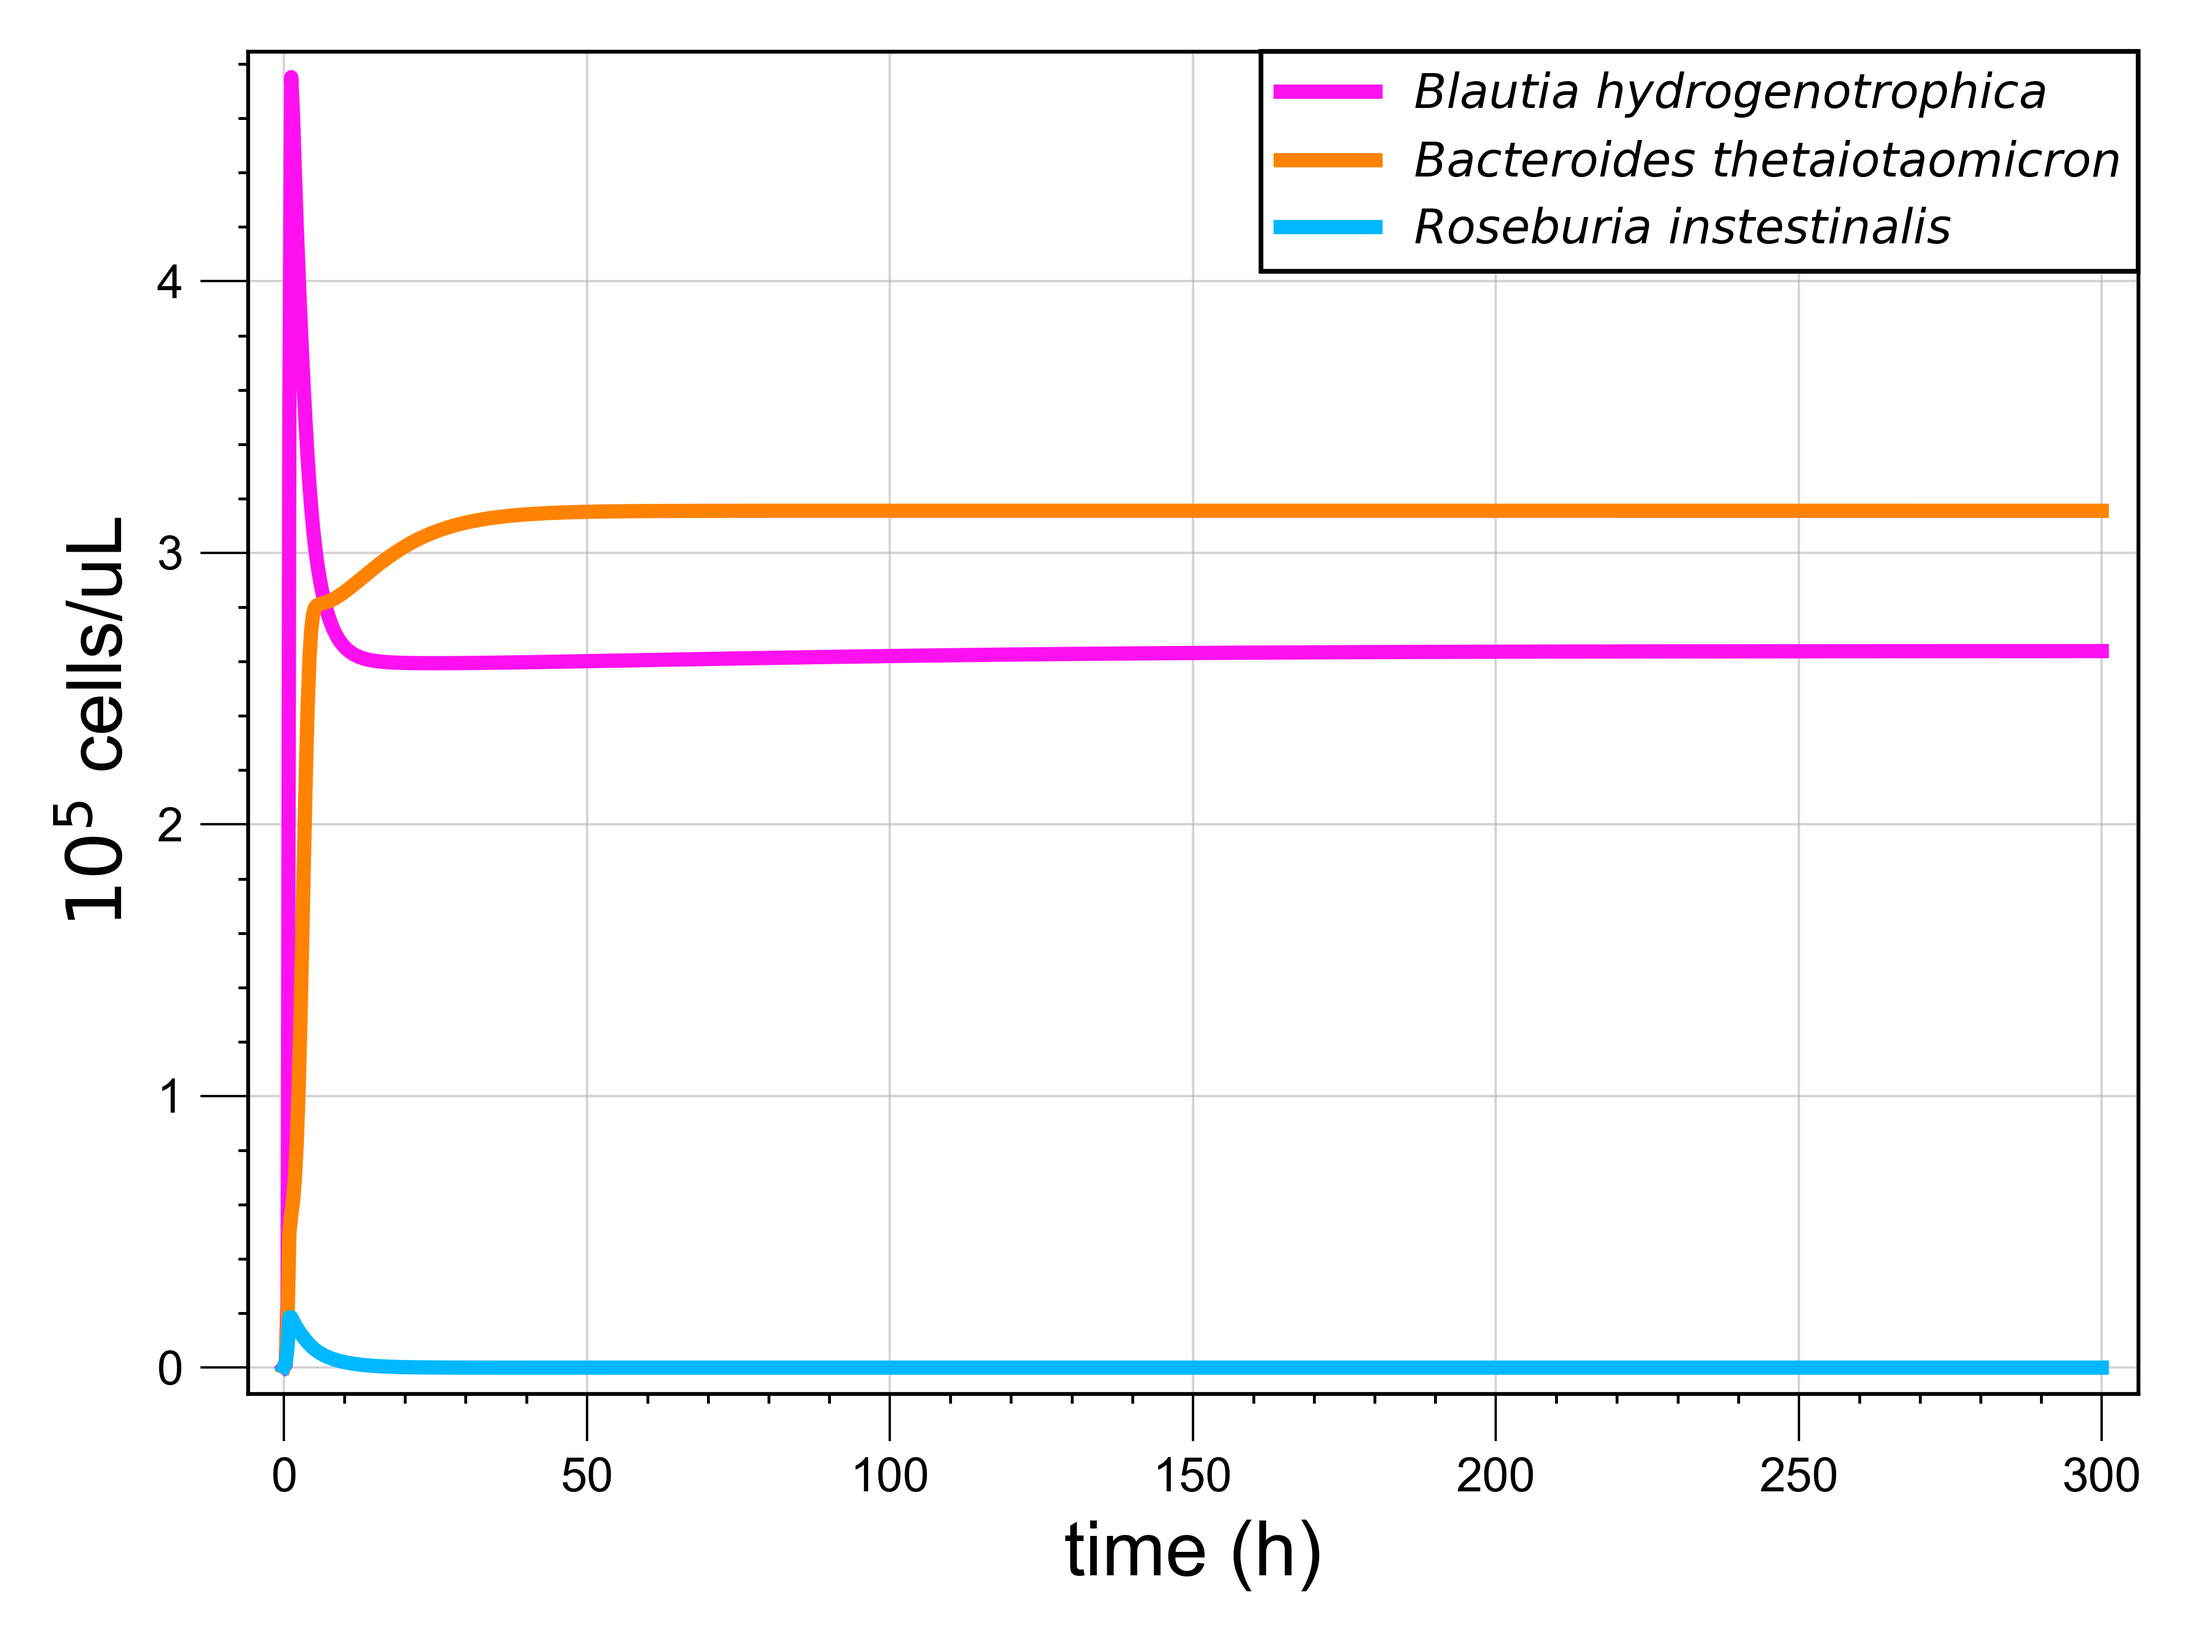
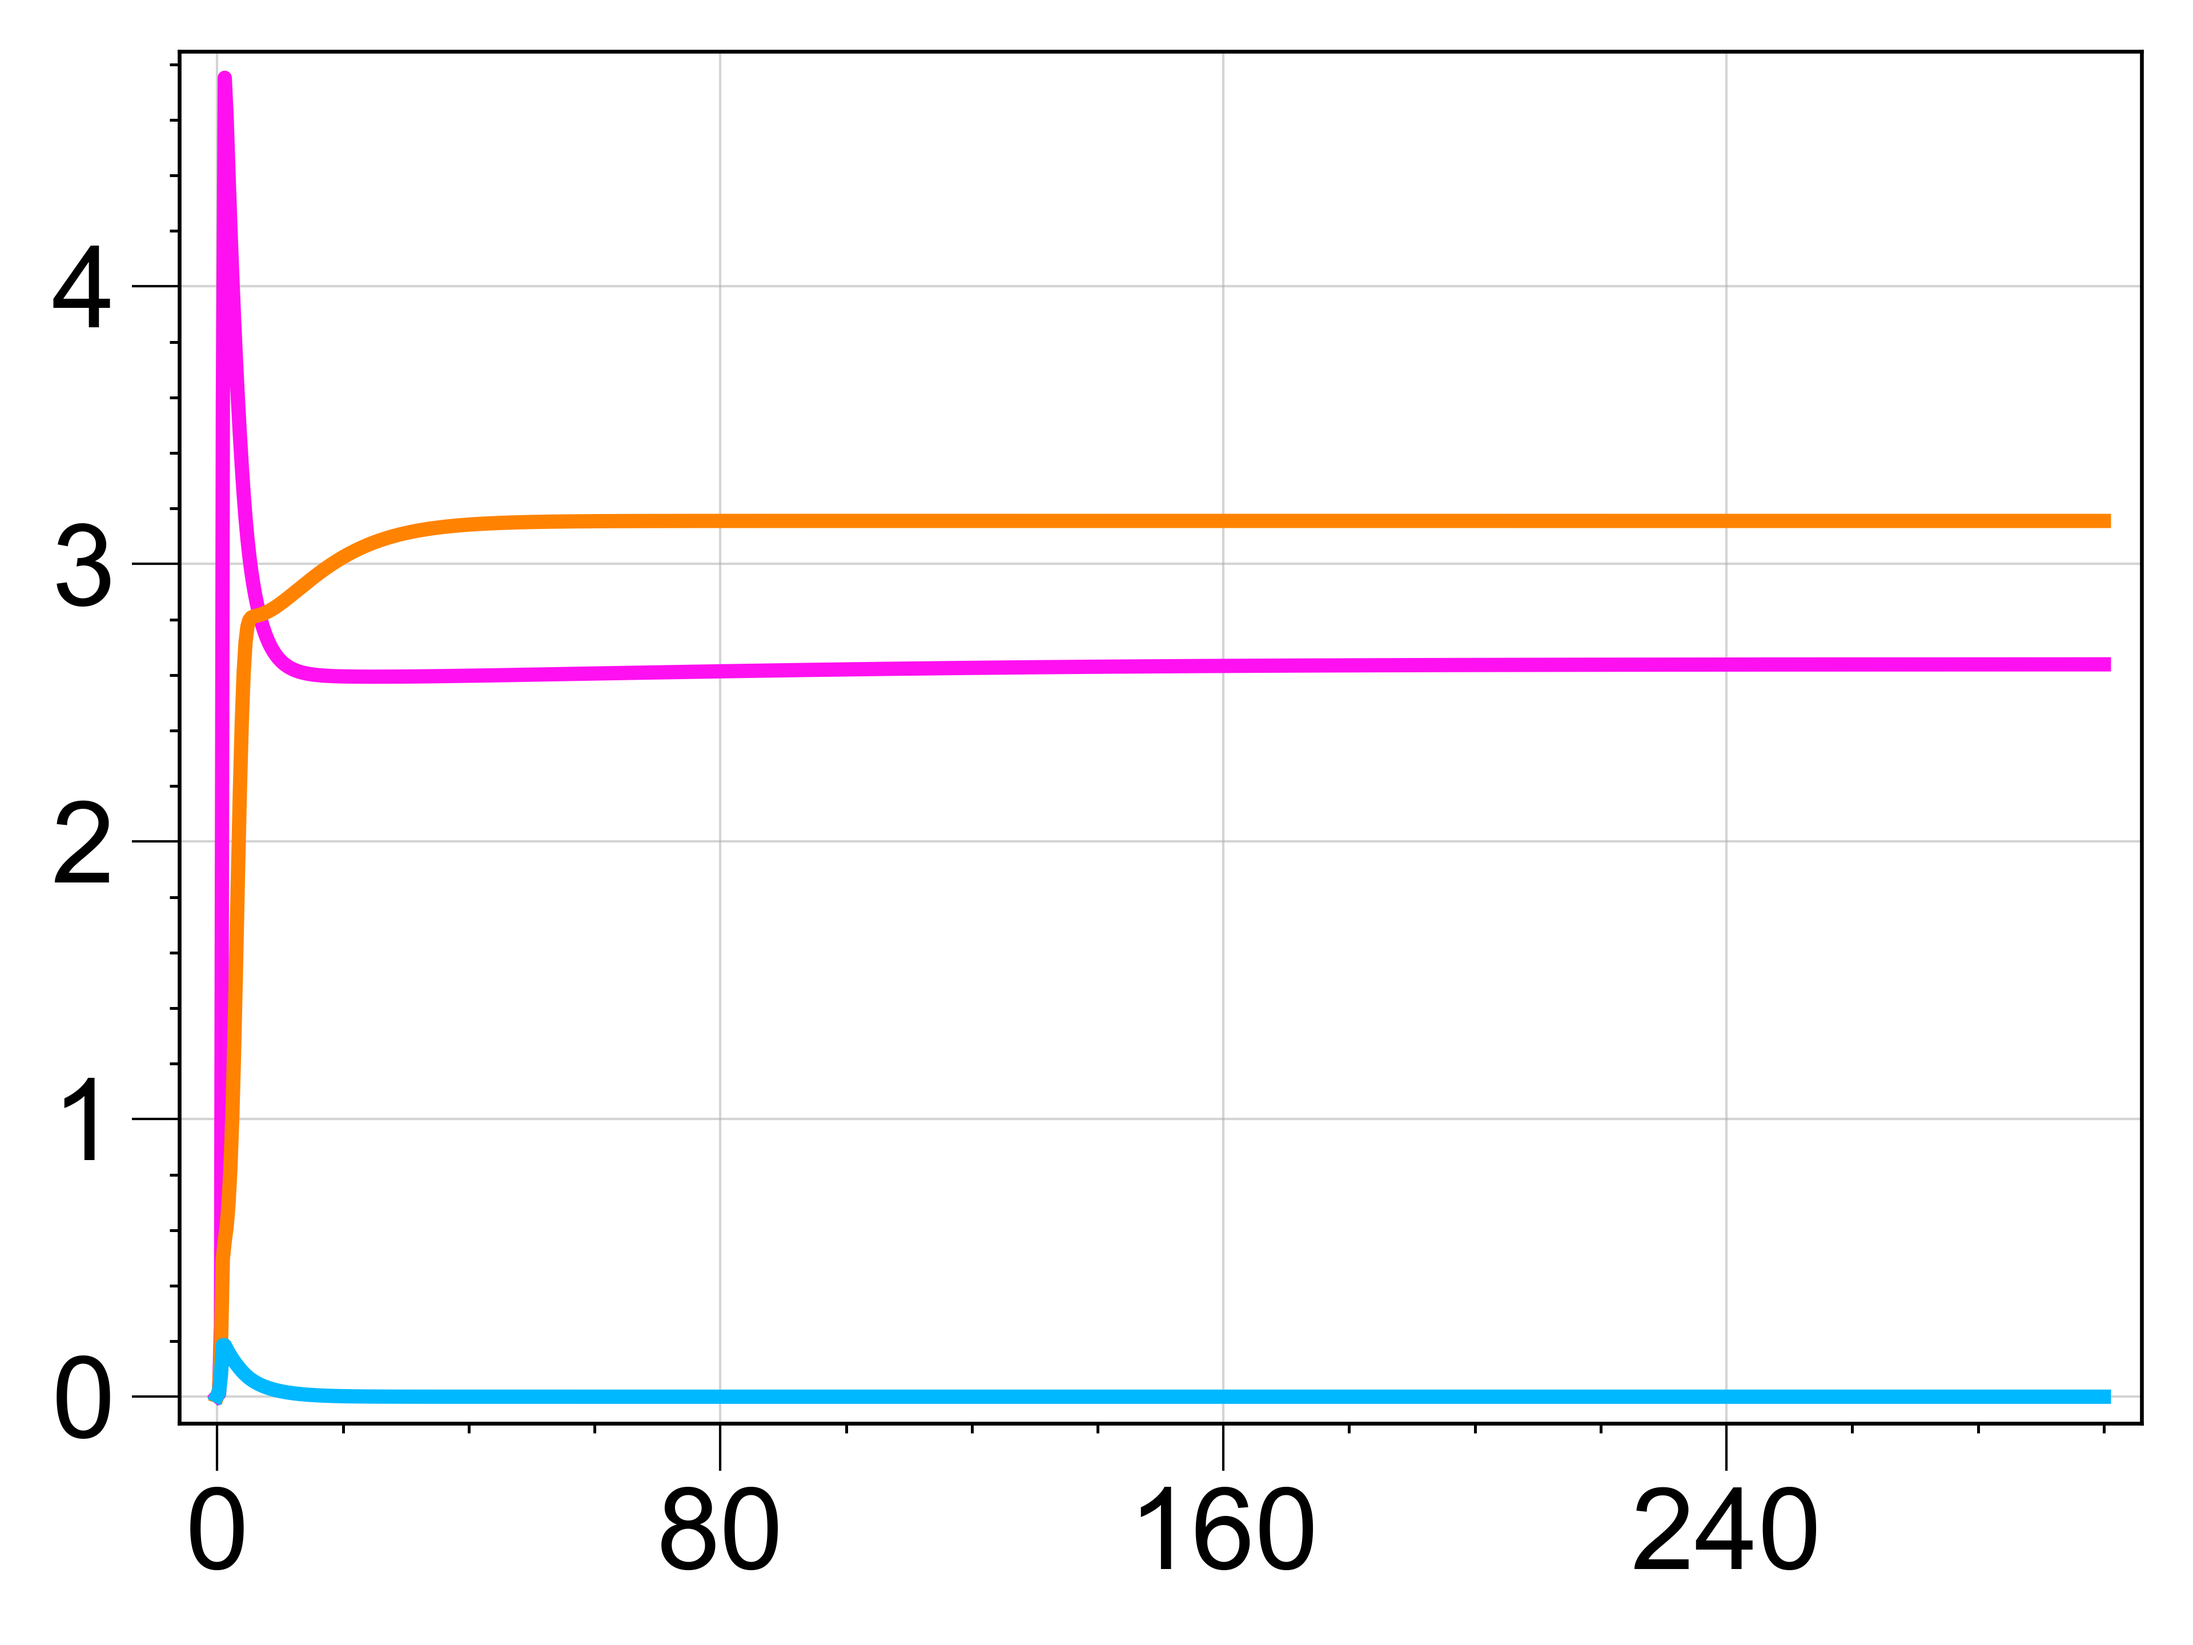
updates

diff --git a/scripts/analysis/noTransitions.py b/scripts/analysis/noTransitions.py
@@ -13,6 +13,8 @@ import numpy as np
 import matplotlib.pyplot as plt
 import matplotlib as mpl
 mpl.rcParams.update({'font.family':'sans-serif', 'font.sans-serif':['DejaVu Sans']})
+from matplotlib.ticker import FormatStrFormatter
+from matplotlib.ticker import MaxNLocator, FormatStrFormatter
 
 from aquarel import load_theme
 
@@ -105,49 +107,53 @@ def get_reactor(species = ['bh'], dilutionFactor = 0, pulses = None, pHFunc = pH
   return reactor
 
 
+from matplotlib.ticker import MaxNLocator
+
+from matplotlib.ticker import MaxNLocator, FormatStrFormatter
+
 def makeKineticPlot(x,
                     y,
                     color,
                     legend,
                     xlabel,
                     ylabel,
-                    title = None,
-                    linestyle = 'o-',
-                    legendSize = 18):
-    '''
-    '$10^5$ cells/uL'
-    'Time (h)'
-    'mM'
+                    title=None,
+                    linestyle='o-',
+                    legendSize=18,
+                    roundDecimals=0):
 
-    '''
-
-    #fig, ax = plt.subplots()
-
-
-    plt.plot(x, y, color=color, linestyle = linestyle, lw=3, alpha = 1.0, label=legend)
+    plt.plot(x, y, color=color, linestyle=linestyle, lw=3, alpha=1.0, label=legend)
 
     if legend is not None:
-      legend_properties = {'size': legendSize}
-      plt.legend(prop=legend_properties,
-                 loc='upper right',        # <-- THIS is the key!
-                 bbox_to_anchor=(1.0, 1.0),# anchor at (x=1, y=1) in Axes coords
-                 bbox_transform=plt.gca().transAxes,
-                 borderaxespad=0.0,        # optional: no extra padding
-                 frameon=True)             # optional: keep the black box
+        legend_properties = {'size': legendSize}
+        plt.legend(prop=legend_properties,
+                   loc='upper right',
+                   bbox_to_anchor=(1.0, 1.0),
+                   bbox_transform=plt.gca().transAxes,
+                   borderaxespad=0.0,
+                   frameon=True)
+
     ax = plt.gca()
 
     ax.set_ylabel(ylabel, fontsize=16)
     ax.set_xlabel(xlabel, fontsize=16)
 
+    ax.tick_params(axis='both', which='major', labelsize=24)
+
+    # Force integer ticks safely
+    ax.xaxis.set_major_locator(MaxNLocator(nbins='auto', integer=True))
+    ax.yaxis.set_major_locator(MaxNLocator(nbins='auto', integer=True))
+
+    # Format as integers
+    ax.xaxis.set_major_formatter(FormatStrFormatter('%d'))
+    ax.yaxis.set_major_formatter(FormatStrFormatter('%d'))
 
     if title is not None:
         plt.title(title, fontsize=16)
 
-
-
-
-
     plt.tight_layout()
+
+
 
 
 def plotSpecies(simulated_reactor_obj, 
@@ -161,9 +167,9 @@ def plotSpecies(simulated_reactor_obj,
   makeKineticPlot(x = time,
                   y = simulated_reactor_obj.cellActive_dyn[0],
                   color = '#FF10F0',
-                  legend = '$\it{Blautia \ hydrogenotrophica}$',
-                  xlabel = 'time (h)',
-                  ylabel = '$10^5$ cells/uL',
+                  legend = None,
+                  xlabel = None,
+                  ylabel = None,
                   title = None,
                   linestyle = '-',
                   legendSize = 10)
@@ -171,18 +177,18 @@ def plotSpecies(simulated_reactor_obj,
   makeKineticPlot(x = time,
                   y = simulated_reactor_obj.cellActive_dyn[1],
                   color = '#ff8300',
-                  legend = '$\it{Bacteroides \ thetaiotaomicron}$',
-                  xlabel = 'time (h)',
-                  ylabel = '$10^5$ cells/uL',
+                  legend = None,
+                  xlabel = None,
+                  ylabel = None,
                   title = None,
                   linestyle = '-',
                   legendSize = 10)
   makeKineticPlot(x = time,
                   y = simulated_reactor_obj.cellActive_dyn[2],
                   color = '#00B8FF',
-                  legend = '$\it{Roseburia \ instestinalis}$',
-                  xlabel = 'time (h)',
-                  ylabel = '$10^5$ cells/uL',
+                  legend = None,
+                  xlabel = None,
+                  ylabel = None,
                   title = None,
                   linestyle = '-',
                   legendSize = 10)
@@ -275,7 +281,7 @@ reactor.microbiome.subpopD['xj'].count = 0.0001
 
 reactor.simulate()
 fileName = os.path.join(Path(os.getcwd()).parents[1], 'files', 'Figures', 'dilution_histeresis_no_transition.png')
-plotSpecies(reactor)
+plotSpecies(reactor, fileName=fileName)
 
 ##########################################
 
@@ -431,9 +437,9 @@ print(f"pH {fixedpH1} and {fixedpH2}")
 makeKineticPlot(x = t_A,
                 y = bh_A,
                 color = '#FF10F0',
-                legend = 'Blautia hydrogenotrophica',
-                xlabel = 'time (h)',
-                ylabel = '$10^5$ cells/uL',
+                legend = None,
+                xlabel = None,
+                ylabel = None,
                 title = None,
                 linestyle = '-',
                 legendSize = 10)
@@ -442,8 +448,8 @@ makeKineticPlot(x = reactorB.time_simul*0.1,
                 y = reactorB.cellActive_dyn[0],
                 color = '#FF10F0',
                 legend = None,
-                xlabel = 'time (h)',
-                ylabel = '$10^5$ cells/uL',
+                xlabel = None,
+                ylabel = None,
                 title = None,
                 linestyle = '-',
                 legendSize = 10)
@@ -454,9 +460,9 @@ makeKineticPlot(x = reactorB.time_simul*0.1,
 makeKineticPlot(x = t_A,
                 y = bt_A,
                 color = '#ff8300',
-                legend = 'Bacteroides thetaiotaomicron',
-                xlabel = 'time (h)',
-                ylabel = '$10^5$ cells/uL',
+                legend = None,
+                xlabel = None,
+                ylabel = None,
                 title = None,
                 linestyle = '-',
                 legendSize = 10)
@@ -465,8 +471,8 @@ makeKineticPlot(x = reactorB.time_simul*0.1,
                 y = reactorB.cellActive_dyn[1],
                 color = '#ff8300',
                 legend = None,
-                xlabel = 'time (h)',
-                ylabel = '$10^5$ cells/uL',
+                xlabel = None,
+                ylabel = None,
                 title = None,
                 linestyle = '-',
                 legendSize = 10)
@@ -476,9 +482,9 @@ makeKineticPlot(x = reactorB.time_simul*0.1,
 makeKineticPlot(x = t_A,
                 y = ri_A,
                 color = '#00B8FF',
-                legend = 'Roseburia instestinalis',
-                xlabel = 'time (h)',
-                ylabel = '$10^5$ cells/uL',
+                legend = None,
+                xlabel = None,
+                ylabel = None,
                 title = None,
                 linestyle = '-',
                 legendSize = 10)
@@ -487,8 +493,8 @@ makeKineticPlot(x = reactorB.time_simul*0.1,
                 y = reactorB.cellActive_dyn[2],
                 color = '#00B8FF',
                 legend = None,
-                xlabel = 'time (h)',
-                ylabel = '$10^5$ cells/uL',
+                xlabel = None,
+                ylabel = None,
                 title = None,
                 linestyle = '-',
                 legendSize = 10)
